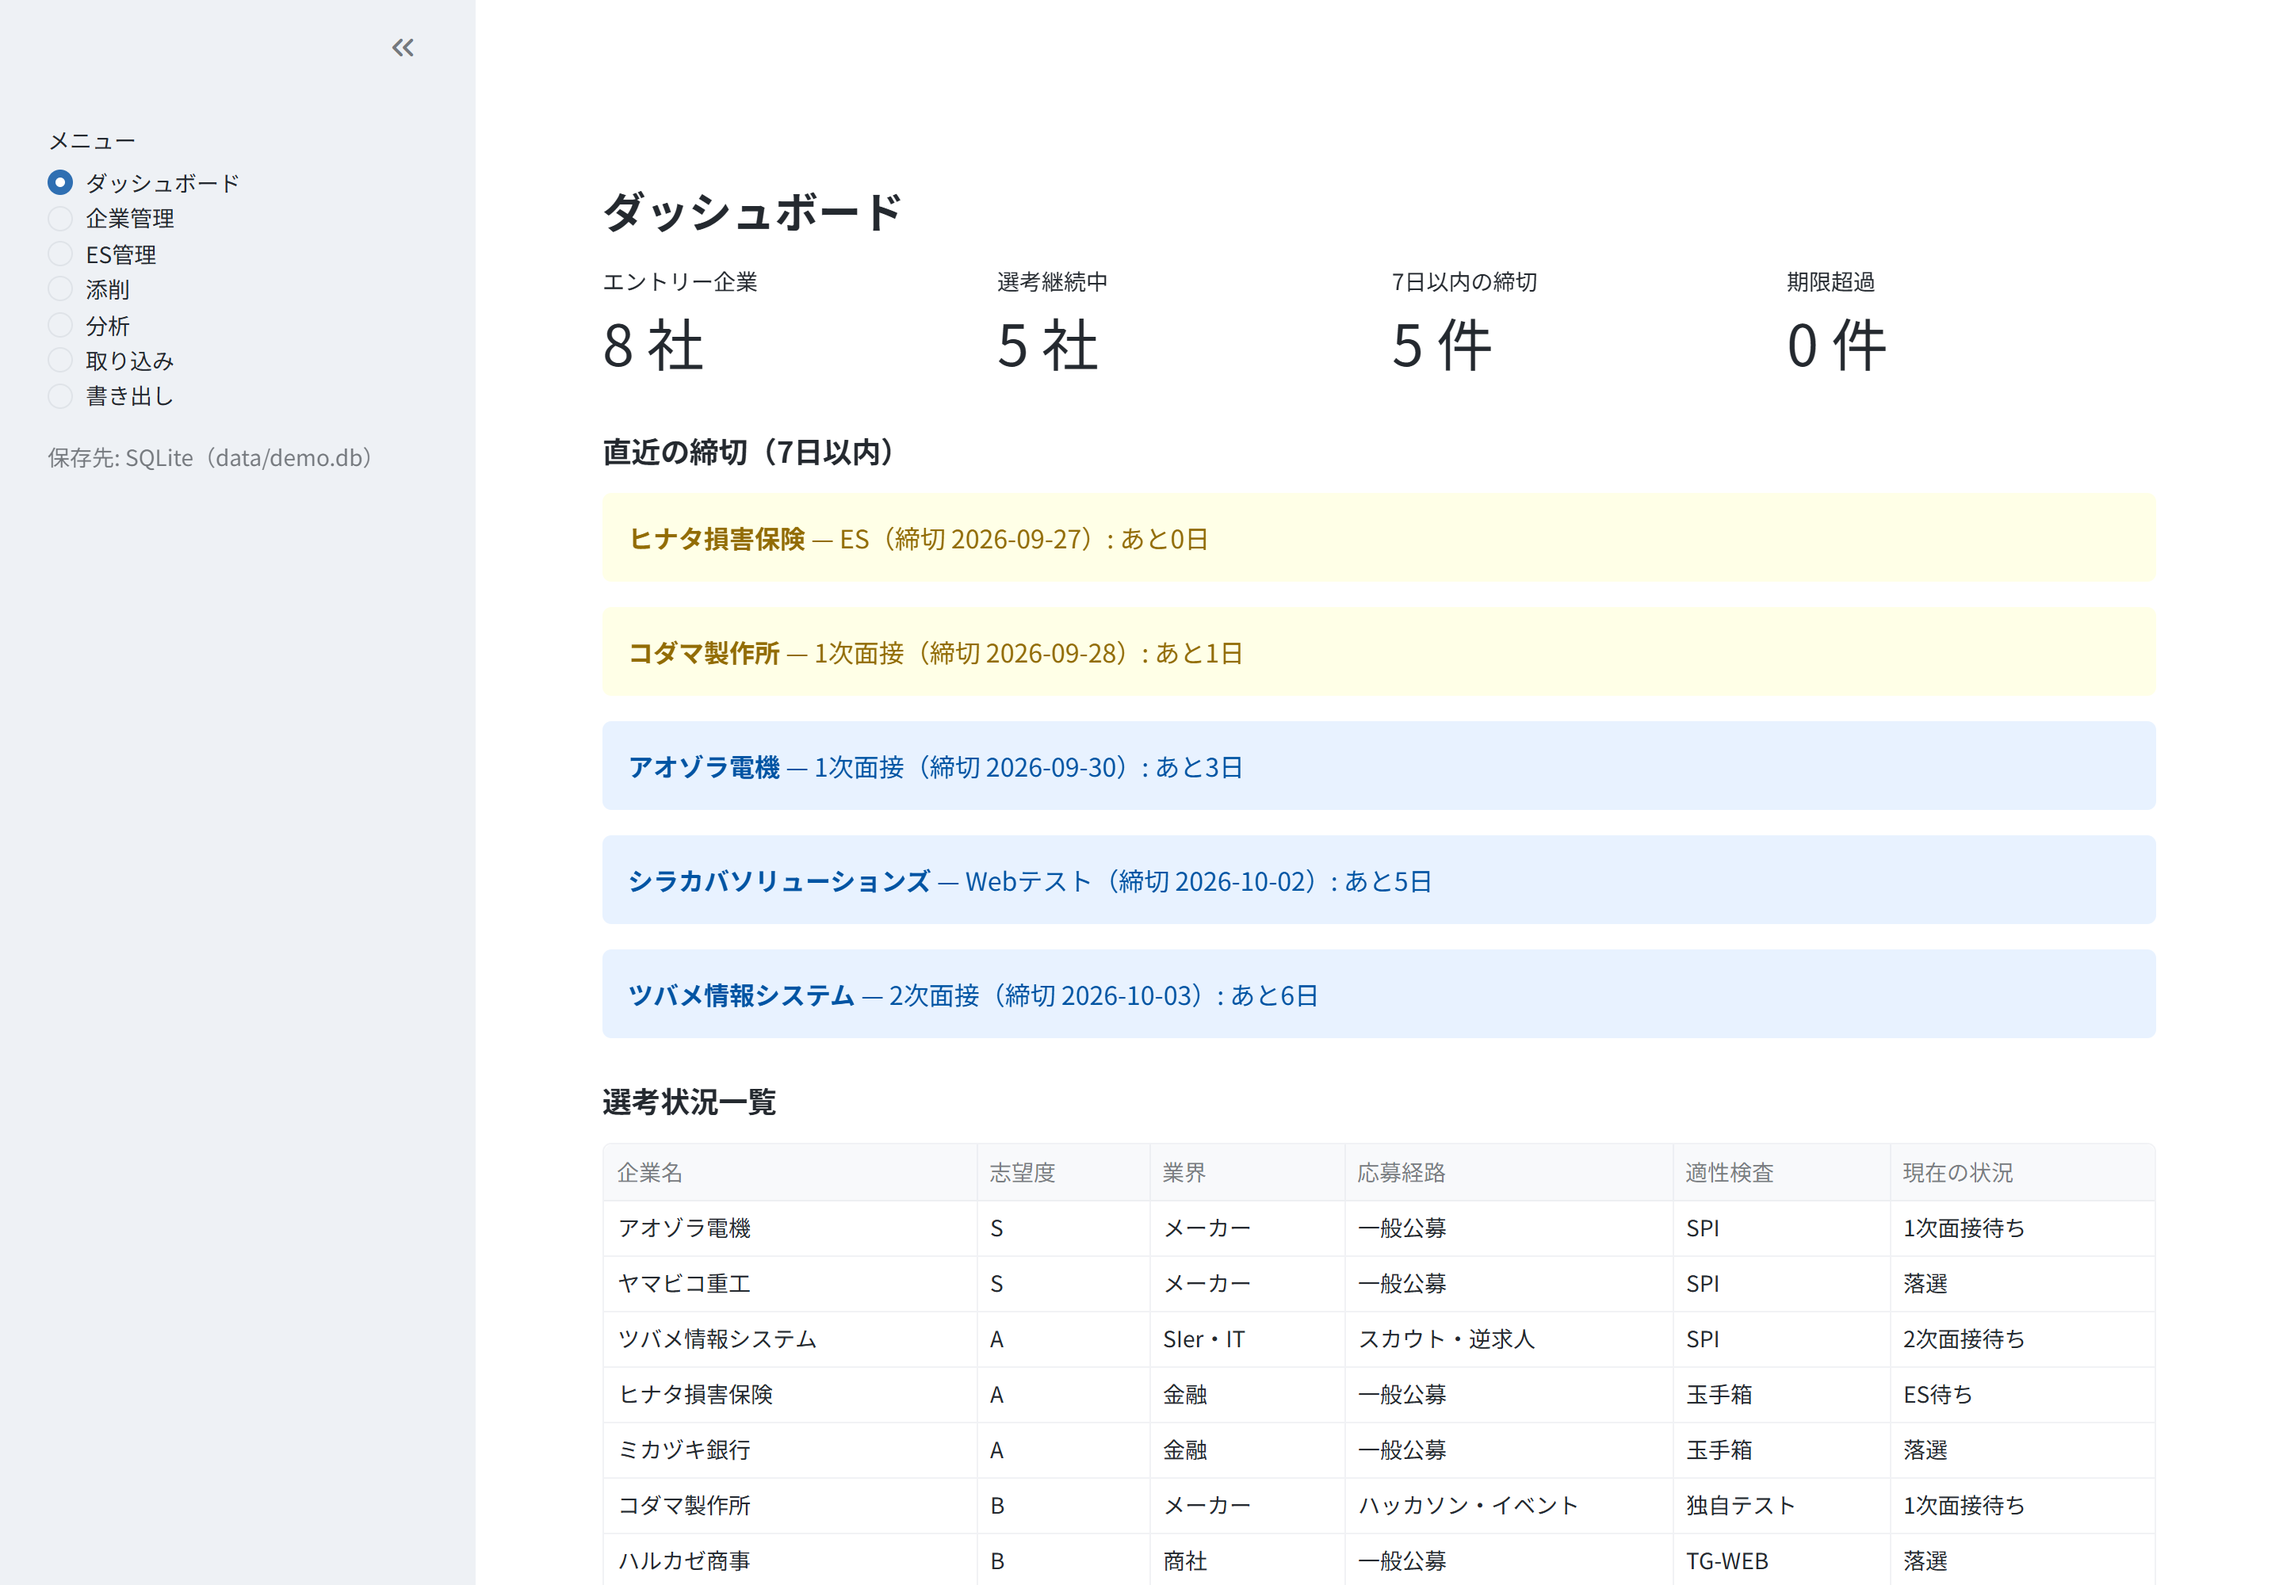
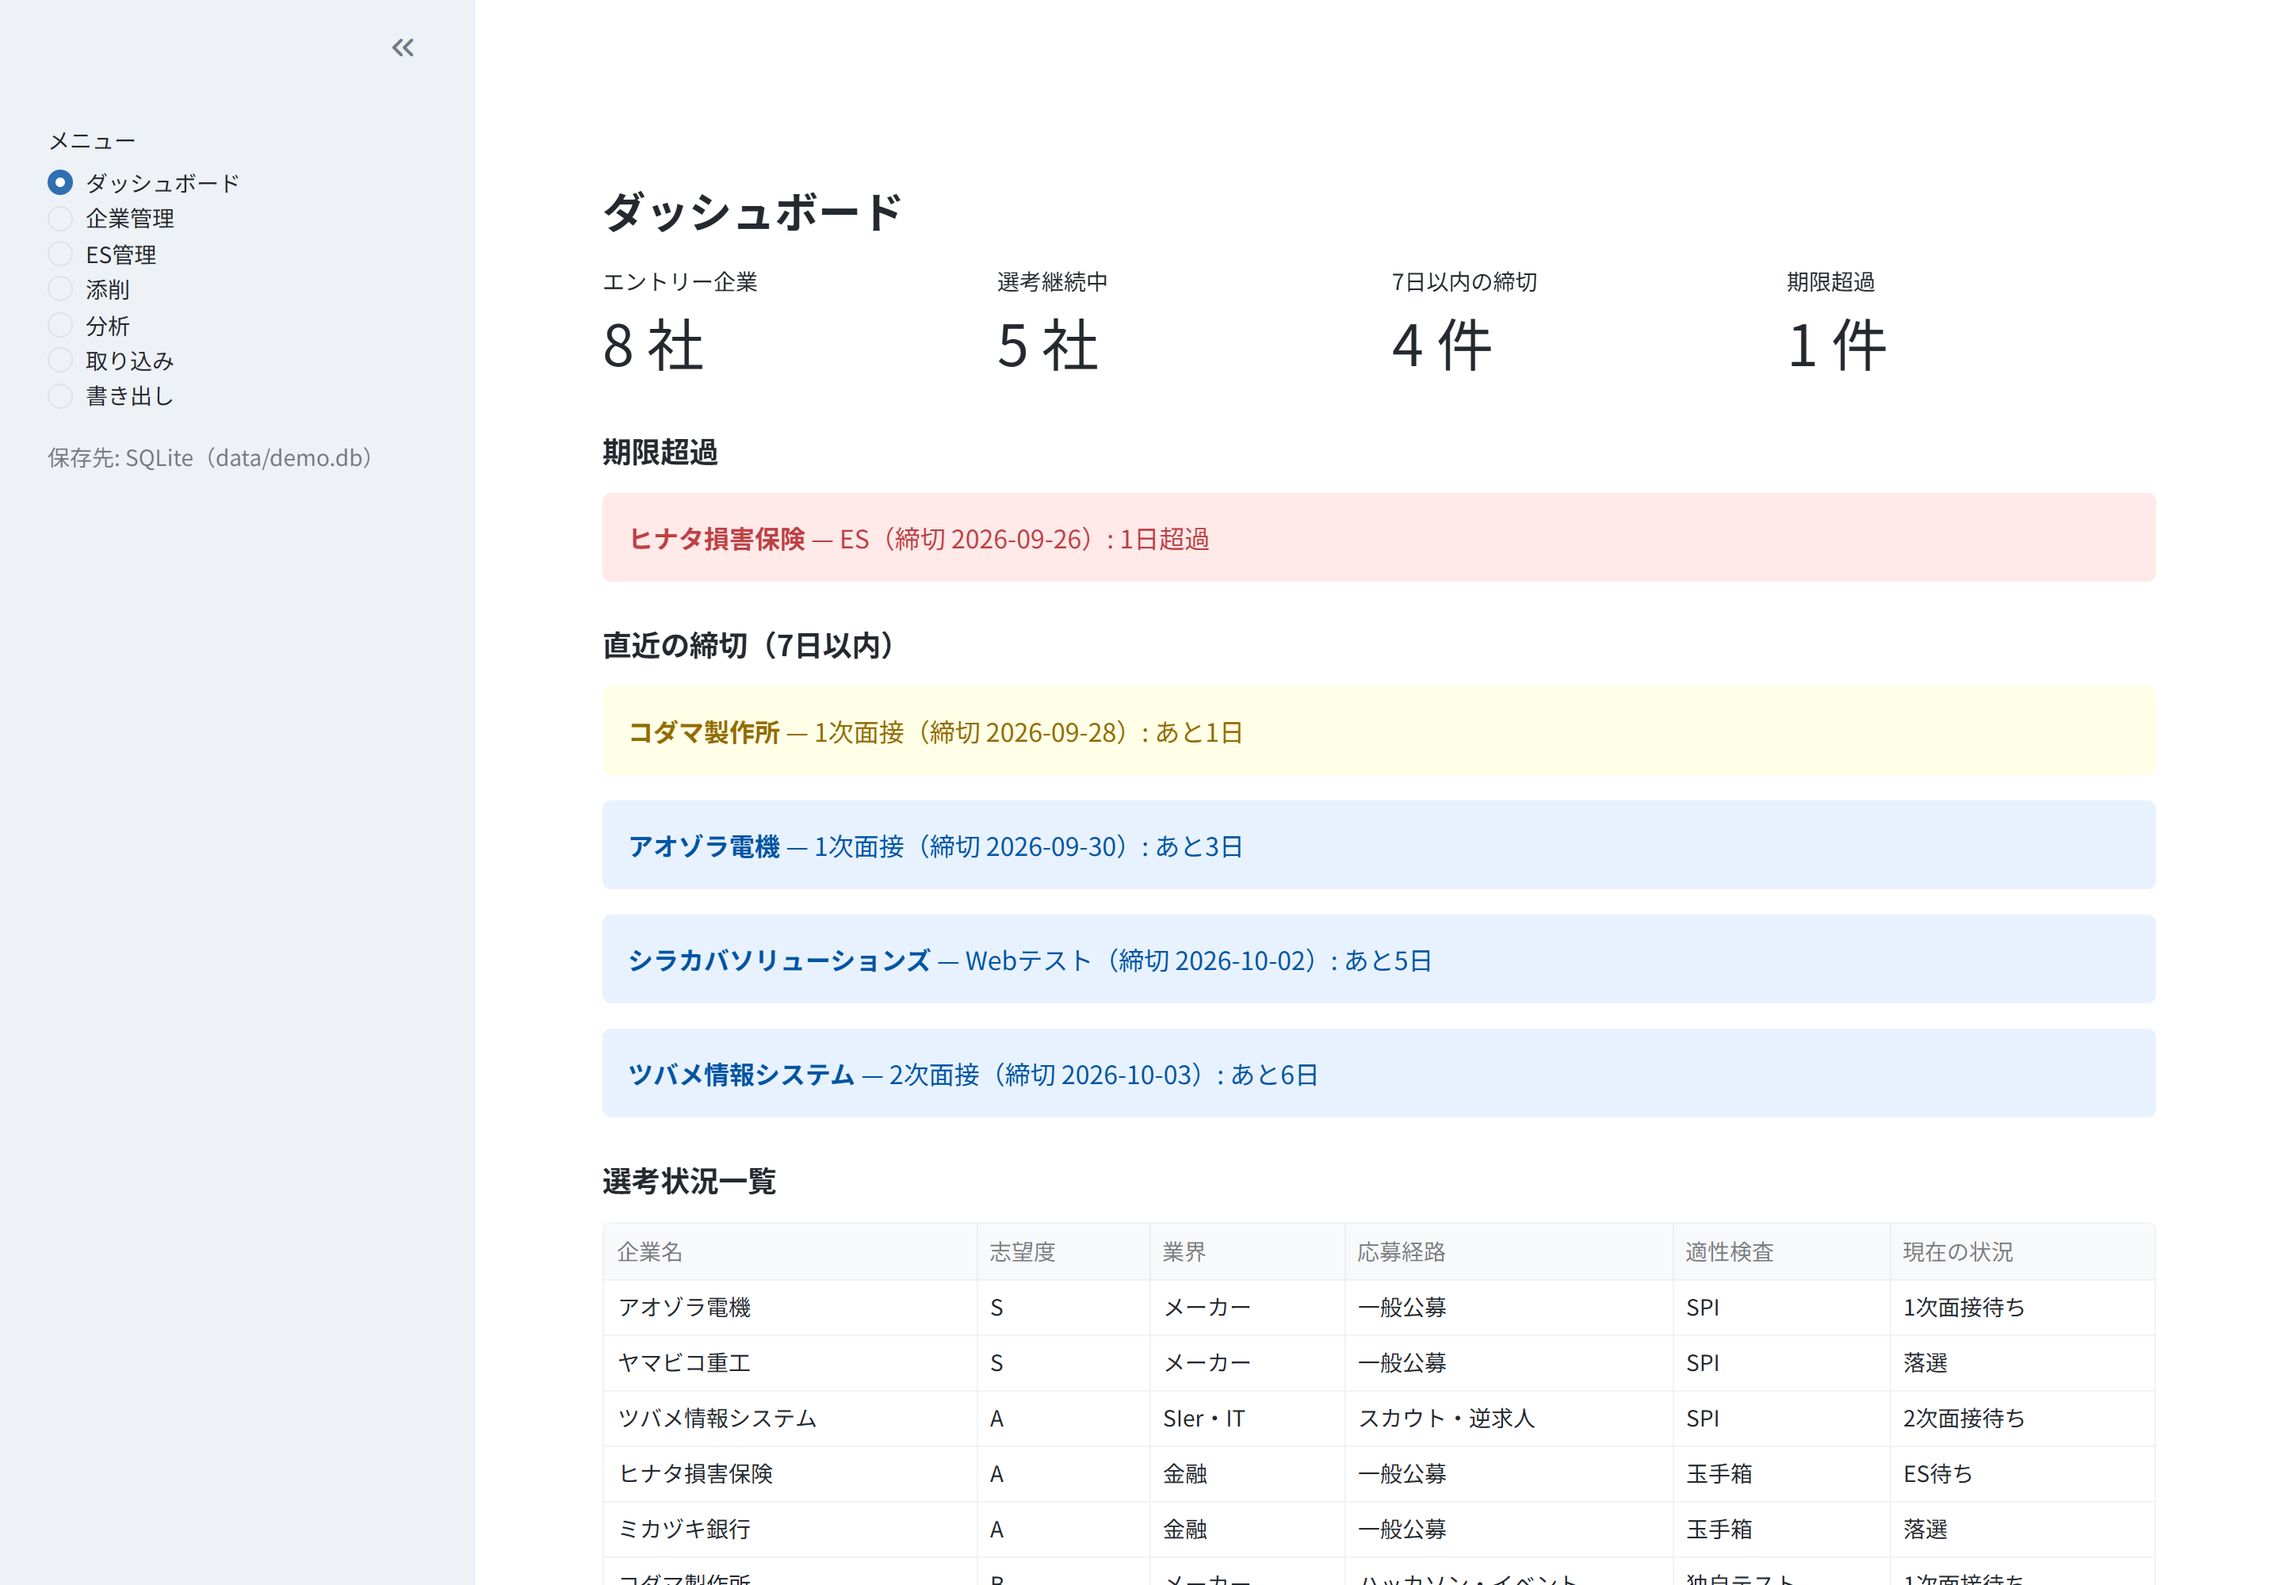
README の冒頭に技術的な見どころを置き、ダッシュボードの画像に期限超過が写るようにする
期限超過の強調表示を README でうたっていたが、デモデータに超過した締切がなく画像では見えなかった。
「企業ごとの選考ステップ」の画像がセキュリティ方針の下にぶら下がっていたので、機能の節へ移す。

diff --git a/scripts/demo_data.py b/scripts/demo_data.py
@@ -41,7 +41,7 @@ DEMO_COMPANIES = [
     ("コダマ製作所", "メーカー", "B", "ハッカソン・イベント", "独自テスト",
      [("ES", -8, "通過"), ("1次面接", 1, "選考中")]),
     ("ヒナタ損害保険", "金融", "A", "一般公募", "玉手箱",
-     [("ES", 0, "選考中")]),
+     [("ES", -1, "選考中")]),  # 期限超過の強調表示を見せるため、締切を1日過ぎた状態にする
     ("シラカバソリューションズ", "SIer・IT", "C", "スカウト・逆求人", "SPI",
      [("ES", -5, "通過"), ("Webテスト", 5, "選考中")]),
     ("ヤマビコ重工", "メーカー", "S", "一般公募", "SPI",
